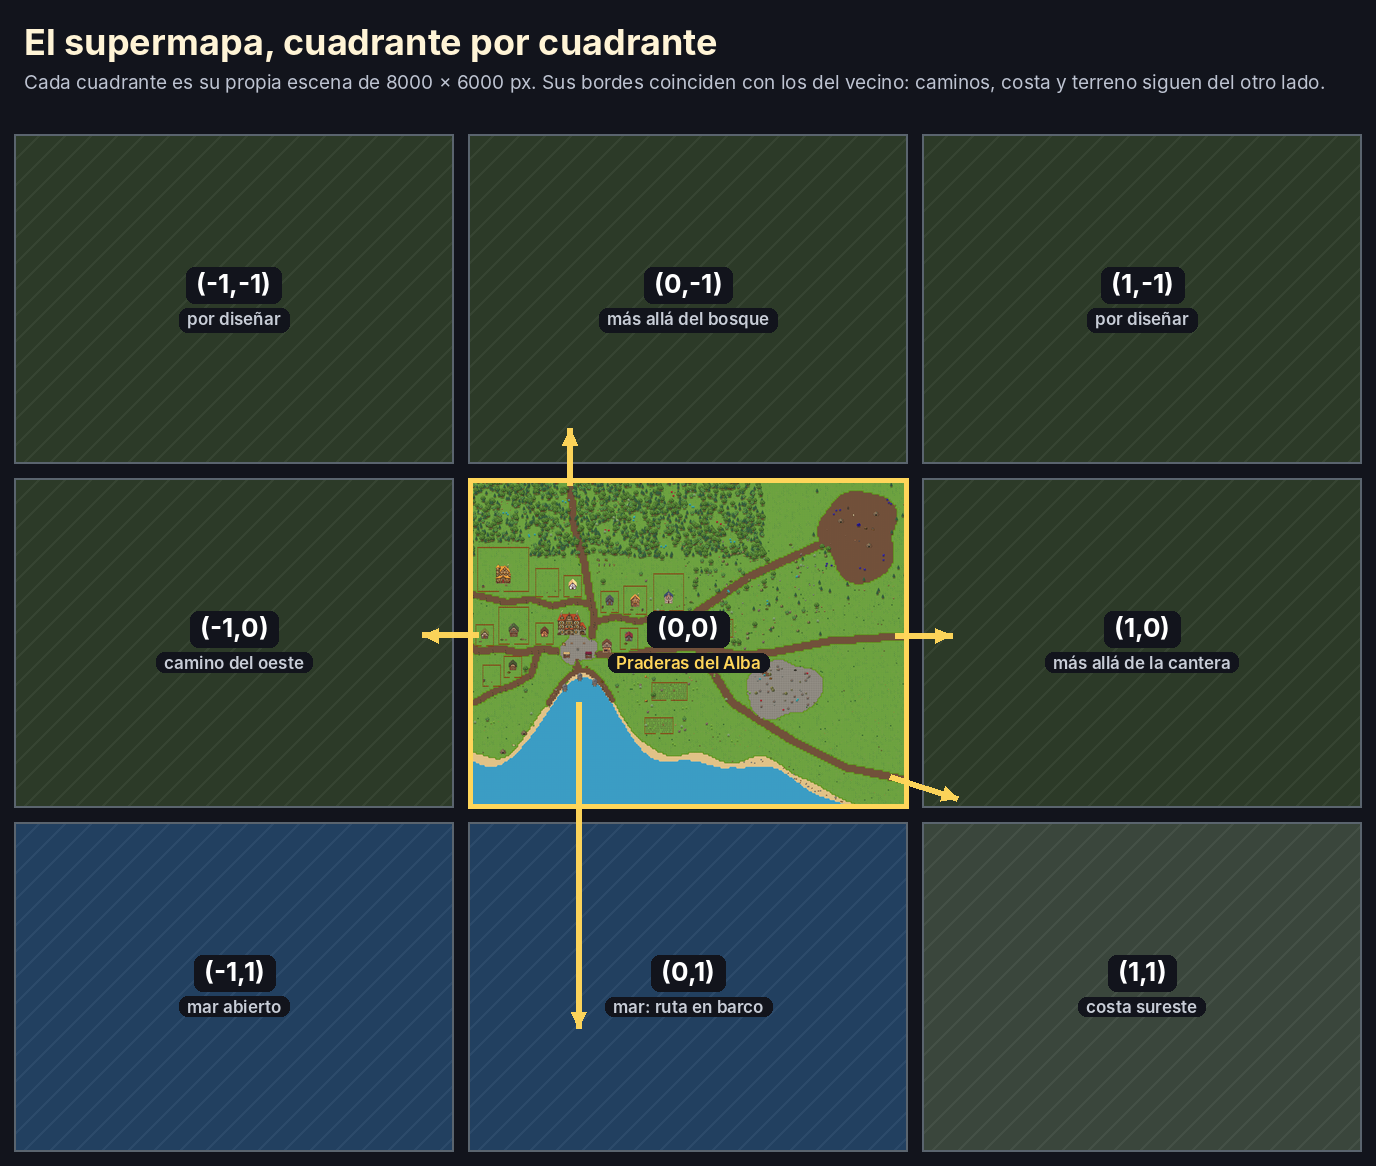
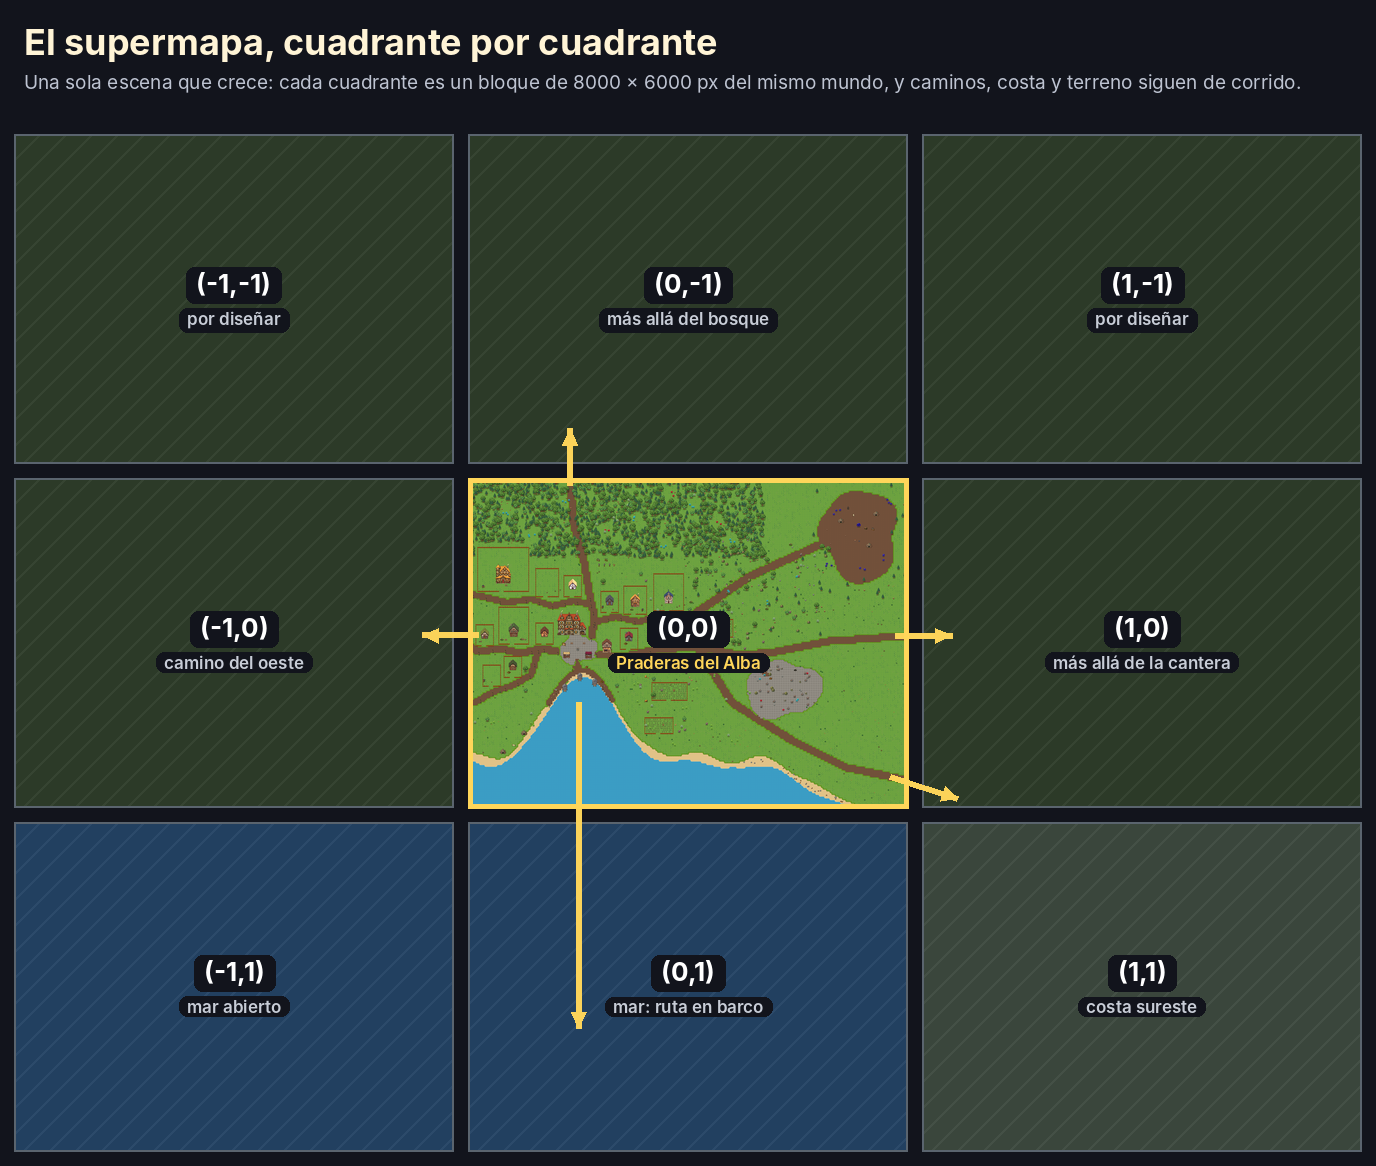
Describe the supermap as one growing scene, not one scene per quadrant
The world is a single scene extended a quadrant at a time. The doc now lists
what breaks when world_size grows in the current code: PaintLayer._rebuild()
blits the old mask at the top-left while the layer stays centred, so paint
shifts; the centred origin grows both sides; full-world masks hit memory and
16384 px texture limits; the baked floor does not extend. The fix it proposes
keeps one scene with per-quadrant paint masks. Also corrects the mask figure:
masks are allocated lazily and none are saved in the zone yet.

Claude-Session: https://claude.ai/code/session_01UDkA1UupnznzynVf32LvTe

Changed region(s): [[0.0312, 0.0617, 0.9688, 0.0926]]

diff --git a/art_pipeline/zona_inicial/render_zona.py b/art_pipeline/zona_inicial/render_zona.py
@@ -848,7 +848,7 @@ def supermap_plate():
     im = Image.new("RGBA", (Wd, Hd), (18, 20, 28, 255))
     d = ImageDraw.Draw(im)
     d.text((gap + 10, 20), "El supermapa, cuadrante por cuadrante", font=font(FONT_B, 36), fill=(255, 244, 214))
-    d.text((gap + 10, 70), "Cada cuadrante es su propia escena de 8000 × 6000 px. Sus bordes coinciden con los del vecino: caminos, costa y terreno siguen del otro lado.",
+    d.text((gap + 10, 70), "Una sola escena que crece: cada cuadrante es un bloque de 8000 × 6000 px del mismo mundo, y caminos, costa y terreno siguen de corrido.",
            font=font(FONT_R, 19), fill=(190, 196, 210))
     thumb = MAP.resize((cw, ch), Image.LANCZOS)
     cells = {

diff --git a/docs/ZONA_INICIAL.md b/docs/ZONA_INICIAL.md
@@ -246,39 +246,49 @@ prendido, nada de esto se puede evaluar.
 
 ---
 
-## El supermapa: crecer por cuadrantes
+## El supermapa: una escena que crece por cuadrantes
 
 ![Supermapa](img/zona_inicial/12_supermapa.png)
 
-La idea es llenar Praderas del Alba como zona inicial y después ir sumando
-cuadrantes alrededor hasta armar un supermapa. Para que eso funcione, conviene
-decidir ahora cómo se arma, mientras hay un solo cuadrante:
+El mundo es **una sola escena** que se va agrandando. El cuadrante es la unidad
+de trabajo: se diseña y se llena un bloque de 8000 × 6000 a la vez, y el
+siguiente se pega al lado dentro de la misma escena, con caminos, costa y
+terreno que siguen de corrido. Praderas del Alba es el cuadrante (0,0).
 
-1. **Cada cuadrante es su propia escena**, no una escena gigante que crece. La
-   razón está en el propio código: cada capa de pintura (`PaintLayer`) guarda
-   una máscara RGBA a media resolución del mundo (`MASK_SCALE = 0.5`). En
-   8000 × 6000 son 4000 × 3000 px, unos 48 MB por capa, y Praderas del Alba
-   tiene 8 capas: **~384 MB solo de máscaras**. Una escena de 3 × 3 cuadrantes
-   multiplicaría eso por 9. Por cuadrante, el costo queda acotado.
-2. **Tamaño fijo: 8000 × 6000 (250 × 188 tiles)**, el que ya tiene esta zona.
-   Con un tamaño fijo, cualquier posición del supermapa es "cuadrante (x, y) +
-   posición local", y el servidor puede repartir cuadrantes después sin
-   recalcular nada.
-3. **Los bordes coinciden:** un camino que sale por el borde este de (0,0)
-   entra por el borde oeste de (1,0) a la misma altura. Lo mismo la costa y los
-   terrenos. Conviene anotar en cada borde dónde cruzan los caminos antes de
-   diseñar el vecino.
-4. **Pasar de un cuadrante a otro, en dos pasos:**
-   - **Primero, como Argentum/Imperium:** al llegar al borde se carga el
-     cuadrante vecino y el jugador aparece del otro lado. Es lo más simple y es
-     lo que ya hace `InteriorTravel` con las casas (fundido + cambio de lugar).
-   - **Después, si hace falta, sin cortes:** precargar los vecinos cuando el
-     jugador se acerca al borde. Con los bordes que coinciden, es una mejora
-     sobre lo mismo, no una reescritura.
+Para que crecer no rompa lo que ya está armado, hay cuatro cosas del código
+actual a tener en cuenta:
 
-Las salidas de Praderas del Alba (en amarillo en la vista general) son norte
-(bosque), oeste (camino del oeste), este (más allá de la cantera), sureste (la
-costa) y el mar, desde el puerto.
+1. **Agrandar `world_size` hoy corre la pintura.** El mundo está centrado en el
+   origen (`PaintLayer.position = -world_size / 2`), pero al cambiar de tamaño
+   `PaintLayer._rebuild()` copia la máscara vieja en la esquina superior
+   izquierda de la nueva. Si el mundo pasa de 8000 a 16000 de ancho, todo lo
+   pintado aparece 4000 px más al oeste, desfasado de las casas y los
+   caminos. Hay que arreglarlo antes de sumar el primer cuadrante.
+2. **El centro del mundo se mueve con el tamaño.** Como `world_size` crece
+   para los dos lados del origen, sumar un cuadrante al este también agranda
+   el oeste. Conviene fijar el origen en una esquina del cuadrante (0,0) y
+   describir el mundo como "qué cuadrantes existen", no como un tamaño
+   centrado.
+3. **La pintura no escala con un mundo grande.** Cada capa que se pinta
+   reserva una máscara del tamaño de medio mundo (`MASK_SCALE = 0.5`): 48 MB
+   en 8000 × 6000, 432 MB en un mundo de 3 × 3 cuadrantes, por capa. Además,
+   la textura no puede pasar de 16384 px de lado en la mayoría de las placas
+   de video, o sea unos 4 cuadrantes de ancho. La solución, sin dejar de ser
+   una escena: **una máscara por cuadrante** (un sprite por capa y cuadrante),
+   creada solo donde se pinta. Hoy ninguna capa de Praderas del Alba tiene
+   nada pintado guardado, así que es el momento barato para cambiarlo.
+4. **El piso base no se extiende solo.** `_build_floor()` no toca un `Floor`
+   que ya tiene celdas, así que el pasto del cuadrante nuevo hay que hornearlo
+   de nuevo (`tools/bake_floor.gd`).
+
+En juego, una escena grande no es problema en sí: los mobs ya se duermen
+cuando el jugador está lejos (`chase_mob.gd`) y `TileMapLayer` dibuja por
+bloques. Lo que más adelante va a necesitar el servidor es saber qué hay cerca
+de cada jugador, y el cuadrante sirve también para eso.
+
+Las salidas de Praderas del Alba (en amarillo en la vista general) marcan dónde
+se pegan los cuadrantes vecinos: norte (bosque), oeste, este (más allá de la
+cantera), sureste (la costa) y el mar, desde el puerto.
 
 ---
 
@@ -372,7 +382,7 @@ dicen si la tabla de [El ritmo esperado](#el-ritmo-esperado) se cumple.
 - Barco y pesca (el puerto queda como decorado).
 - Comprar lotes, impuesto y subir de tier (M6): los lotes se dibujan, pero
   todavía no se compran.
-- Mazmorra (va en el segundo cuadrante, M7).
+- Mazmorra (va en el próximo cuadrante, M7).
 - Diálogos de NPCs (M4): por ahora los POIs son marcadores.
 
 ---

diff --git a/docs/ROADMAP.md b/docs/ROADMAP.md
@@ -73,9 +73,10 @@ cumplir un encargo.
 - Subir de tier e impuesto, después.
 
 ### M7 — Segundo cuadrante
-- El cuadrante vecino de Praderas del Alba, con una mazmorra corta, como escena
-  propia de 8000 × 6000 con los bordes coincidiendo.
-- Pasar de un cuadrante a otro al cruzar el borde.
+- Antes de agrandar el mundo: que la pintura no se corra al cambiar
+  `world_size` y que las máscaras sean por cuadrante (ver `ZONA_INICIAL.md`).
+- Pegar el cuadrante vecino a Praderas del Alba en la misma escena, con una
+  mazmorra corta.
 - Si un cuadrante sale en días y no en semanas, el editor rindió.
 
 ## Por qué este orden
